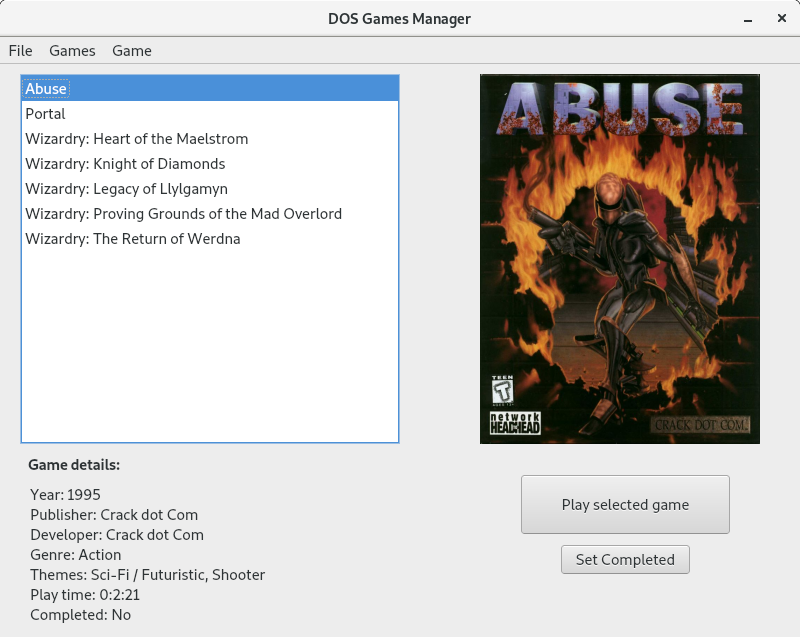
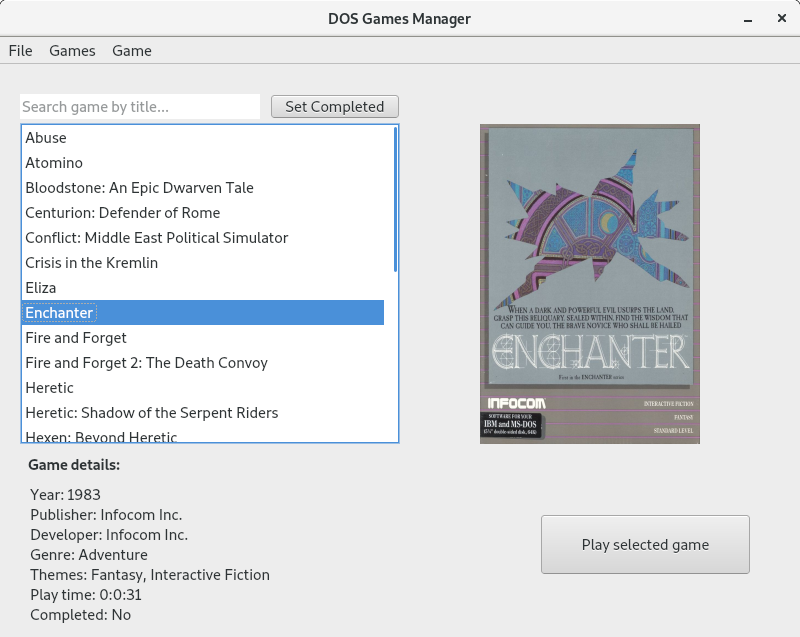
added search, mainwindow graphics changes
quick and dirty dynamic (search as user inputs) search by title

diff --git a/mainwindow.cpp b/mainwindow.cpp
@@ -135,7 +135,6 @@ void MainWindow::on_games_list_itemSelectionChanged() {
 }
 
 void MainWindow::refreshGamesList() {
-    //ui->games_list->clearSelection();
     ui->games_list->clear();
     displayed.clear();
 
@@ -148,6 +147,7 @@ void MainWindow::refreshGamesList() {
     // apply filters
     filterByGenre();
     filterByTheme();
+    filterBySearchTerm();
     // add to games_list
     for(DOSApplication* game : displayed) {
         ui->games_list->addItem(game->title);
@@ -169,9 +169,18 @@ void MainWindow::filterByGenre() {
 void MainWindow::filterByTheme() {
     for (QAction* act : ui->menuFilter_by_theme->actions()) {
         if (act->isChecked()) {
-            for(int i = displayed.size() - 1; i > -1; i--) {
+            for (int i = displayed.size() - 1; i > -1; i--) {
                 if (!displayed.at(i)->hasTheme(act->text())) displayed.remove(i);
             }
+        }
+    }
+}
+
+void MainWindow::filterBySearchTerm() {
+    QString searchTerm = this->ui->titleSearch->text().toLower();
+    if (searchTerm.size() > 0) {
+        for (int i = displayed.size() - 1; i > -1; i--) {
+            if (! displayed.at(i)->title.toLower().contains(searchTerm)) displayed.remove(i);
         }
     }
 }
@@ -255,5 +264,11 @@ void MainWindow::on_actionDelete_Game_triggered() {
     refreshGenresAndThemes();
     addGenres();
     addThemes();
+    refreshGamesList();
+}
+
+
+void MainWindow::on_titleSearch_textEdited(const QString &arg1) {
+    // arg1 is unnecessary right now
     refreshGamesList();
 }

diff --git a/mainwindow.h b/mainwindow.h
@@ -39,6 +39,8 @@ private slots:
 
     void filterByTheme();
 
+    void filterBySearchTerm();
+
     void on_set_completed_clicked();
 
     void on_actionExit_triggered();
@@ -64,6 +66,8 @@ private slots:
     void on_actionHide_completed_games_triggered();
 
     void on_actionDelete_Game_triggered();
+
+    void on_titleSearch_textEdited(const QString &arg1);
 
 private:
     QVector<DOSApplication> games;
